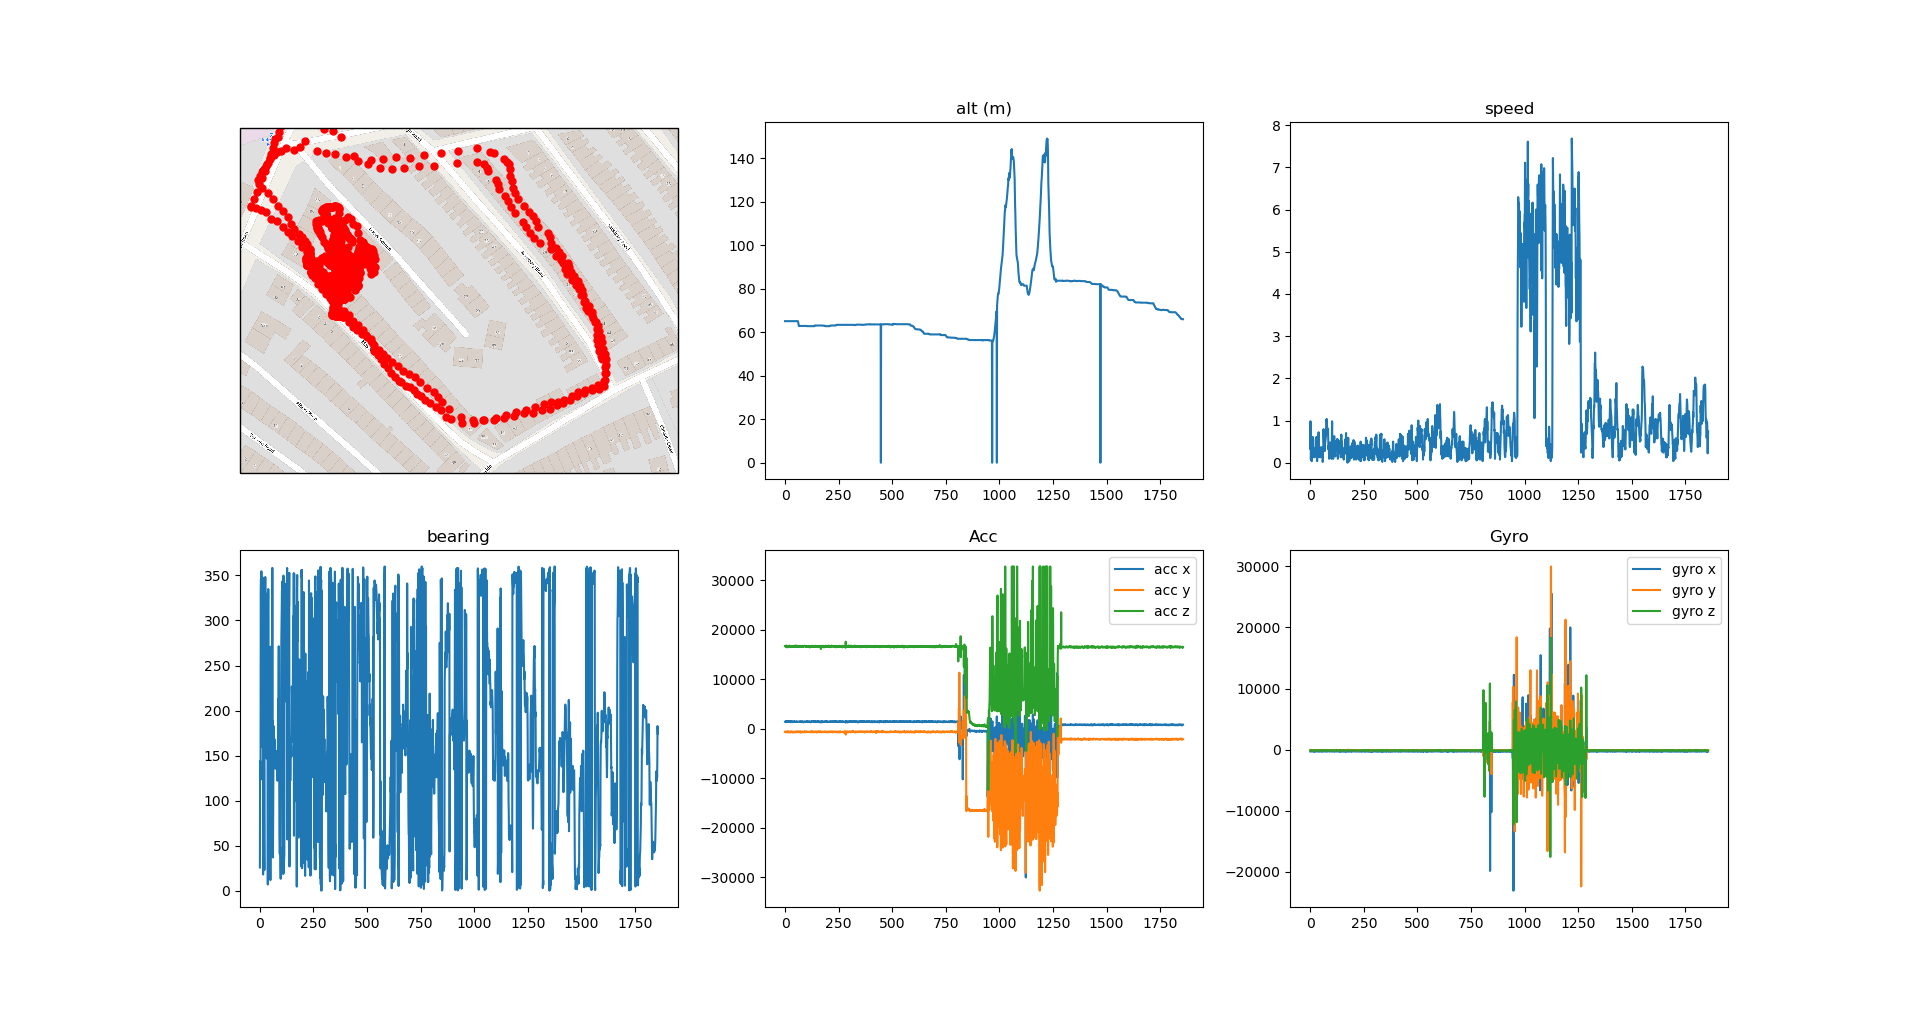
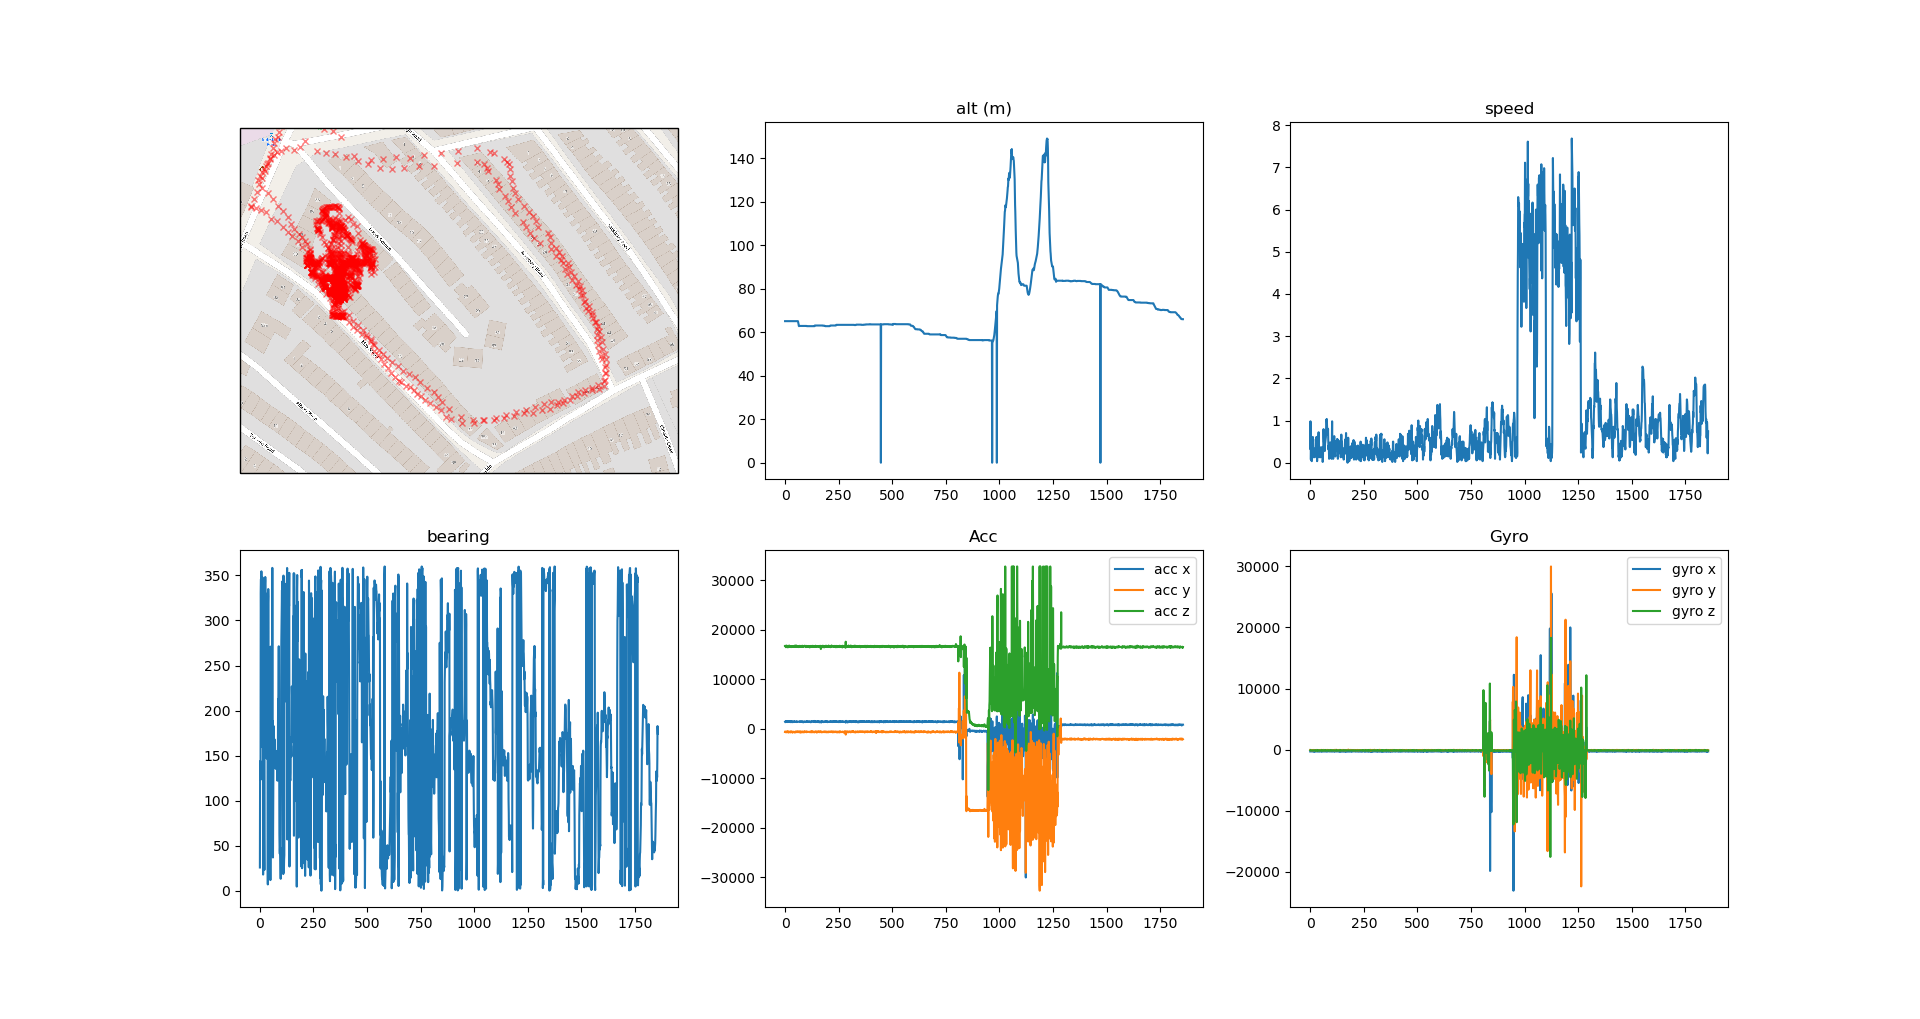
x instead of o markers

Changed region(s): [[0.125, 0.1217, 0.3125, 0.3346], [0.1875, 0.3346, 0.3125, 0.4259], [0.3125, 0.3346, 0.3438, 0.3651]]

diff --git a/plots/make_plot.py b/plots/make_plot.py
@@ -103,7 +103,7 @@ print('plot')
 
 print(list(zip(lon_arr, lat_arr)))
 
-ax1.plot(lon_arr, lat_arr, markersize=5,marker='o',linestyle='',color='red',transform=ccrs.PlateCarree())
+ax1.plot(lon_arr, lat_arr, markersize=5,marker='x',alpha=0.5, linestyle='',color='red',transform=ccrs.PlateCarree())
 
 print('show')
 
